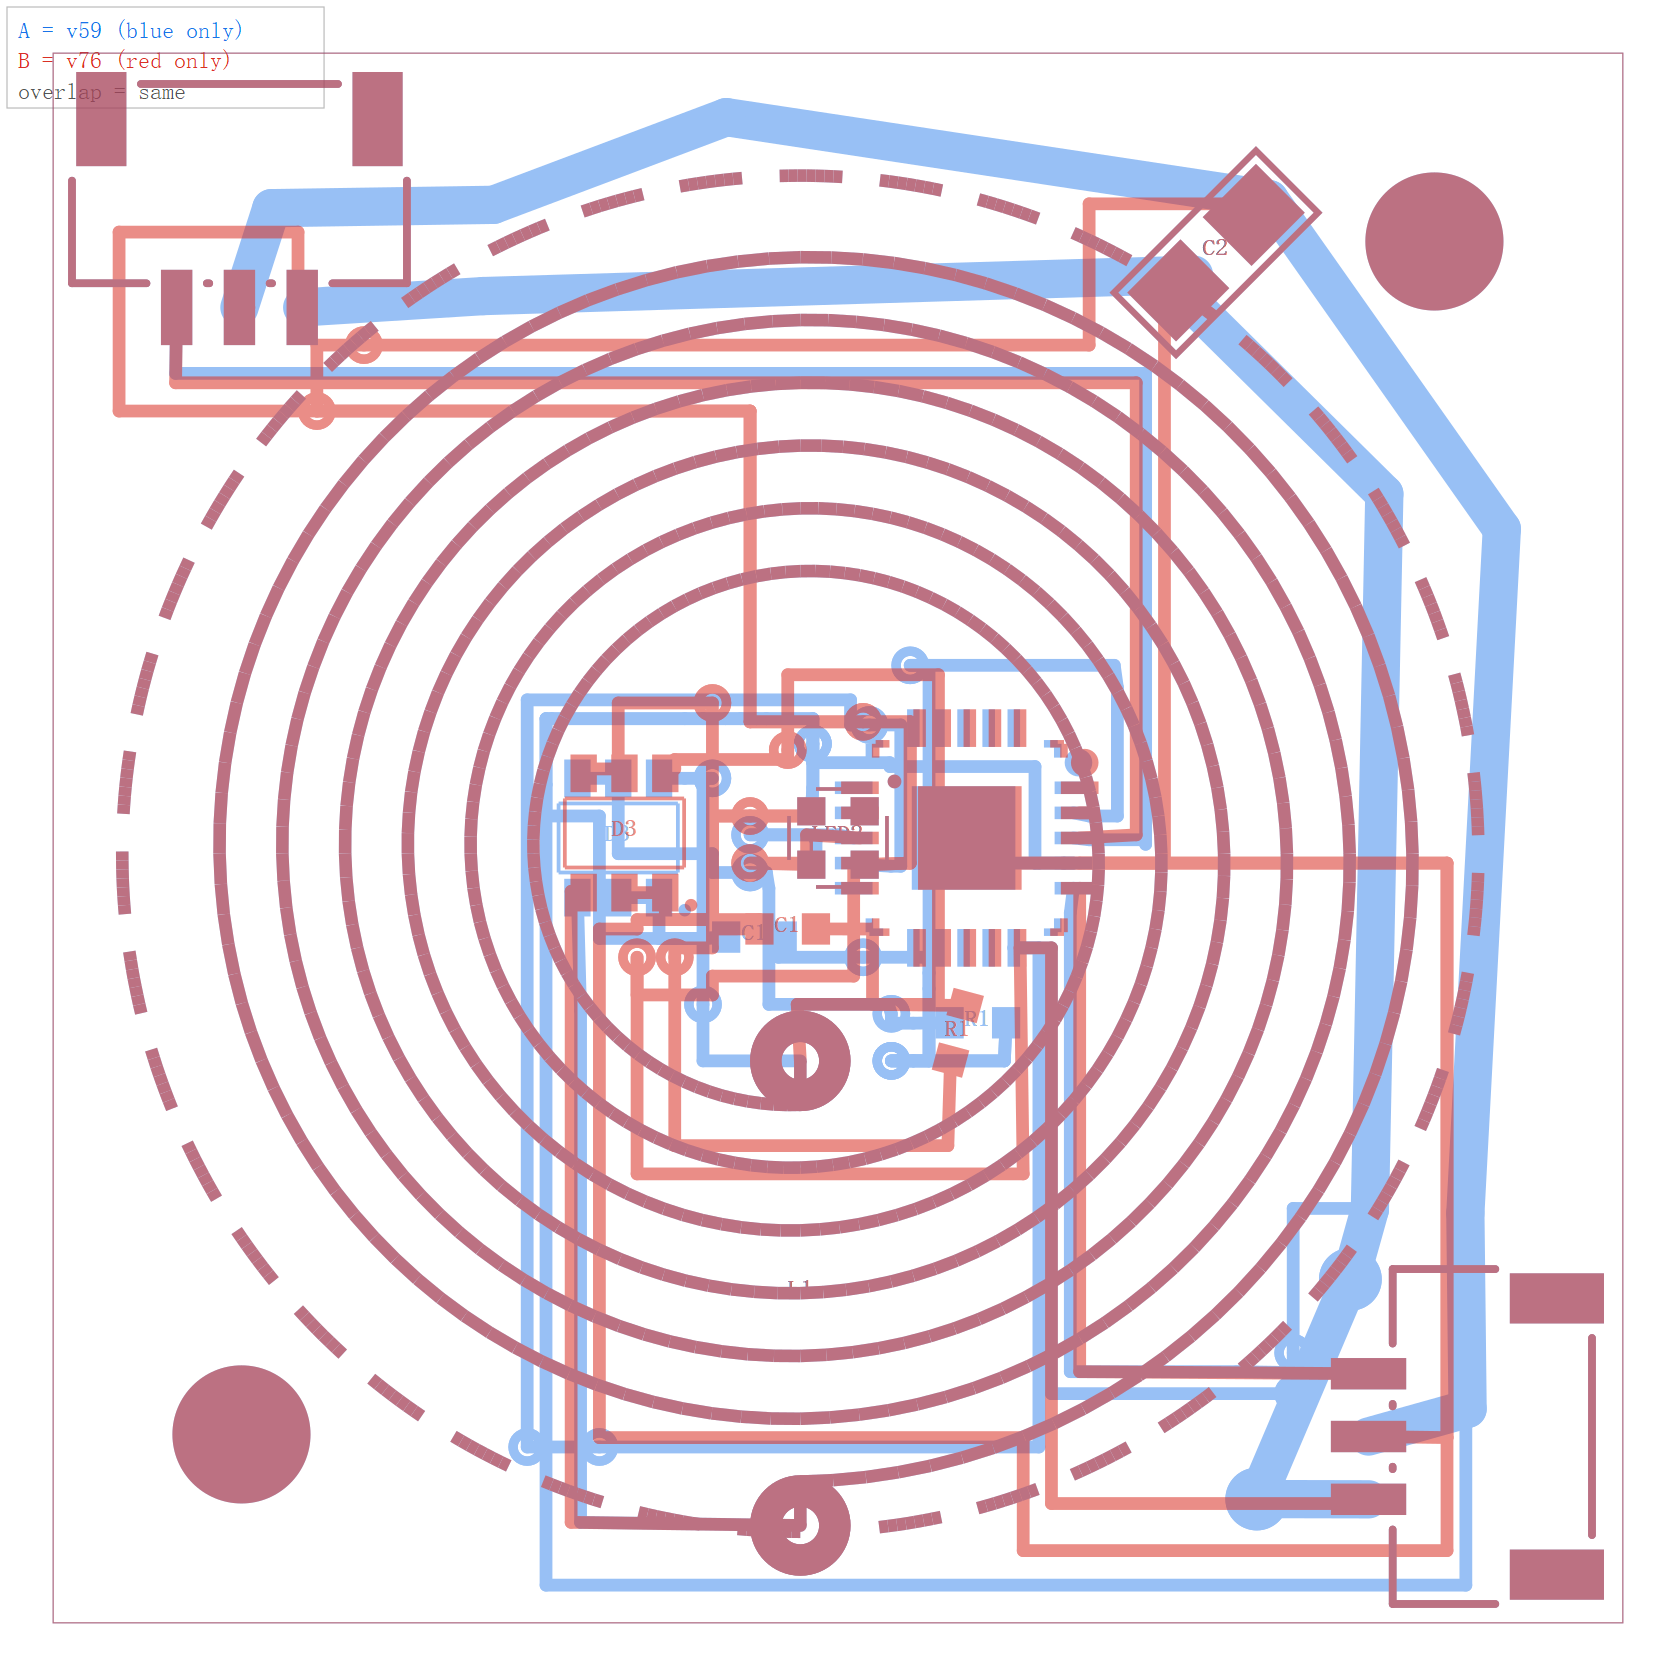
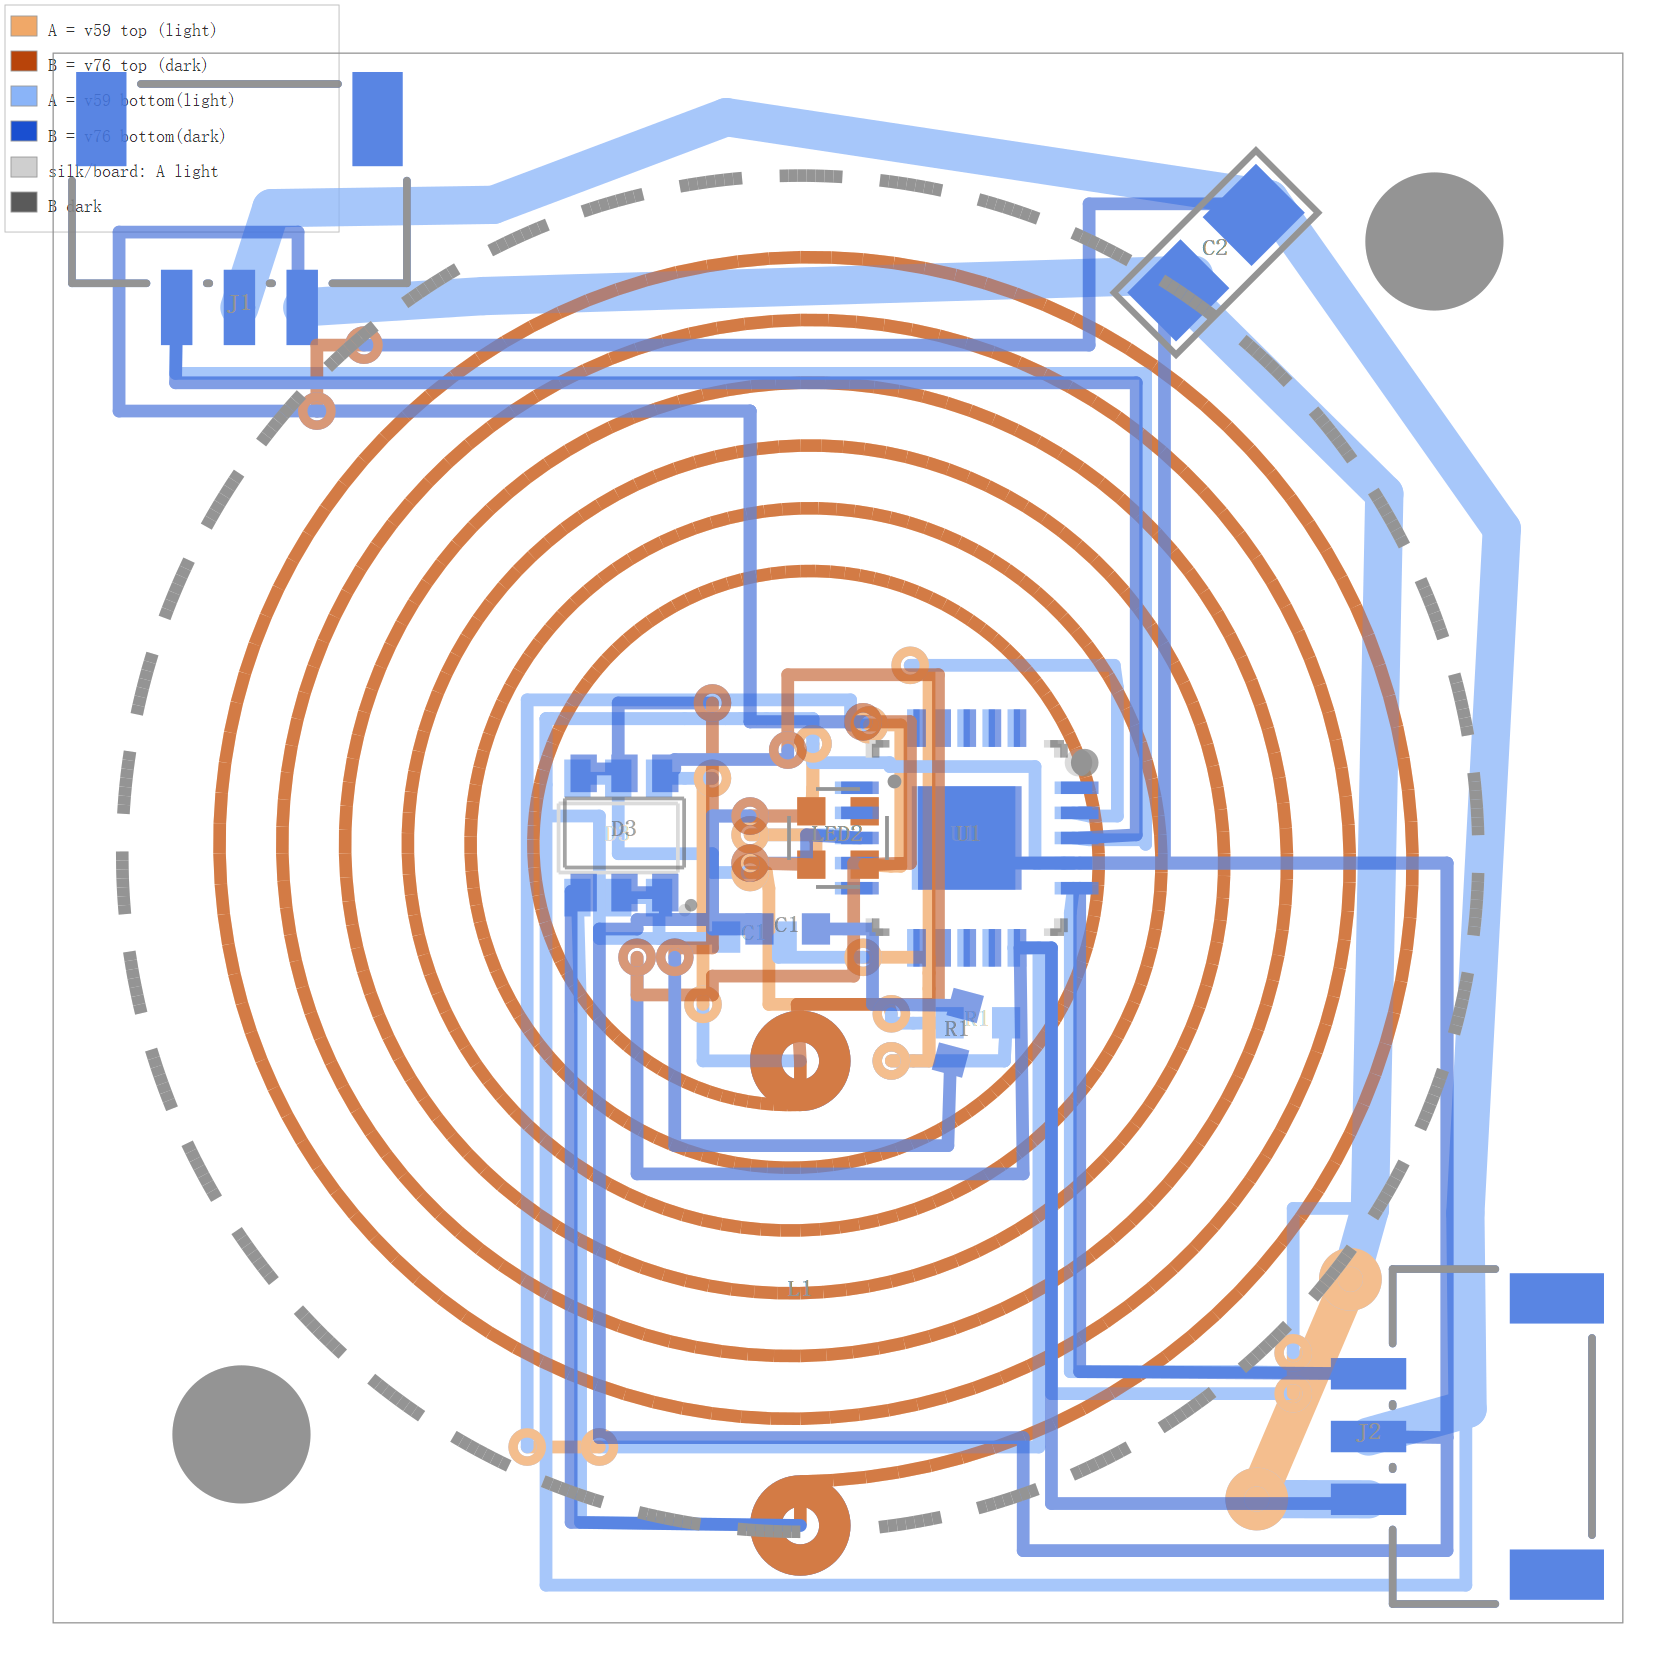
pixel: 差异图保住双面板层色（色相 = 层 / 深浅 = 版）
用户 2026-10-07 原话：「仍然有个问题，双面板的颜色差异看不出来了」。
⇒ 旧的"整版一色（A 蓝 / B 红）"把 copper0/copper1 刷成一色了。现在改成：

- **色相 = 层**：顶层 = 暖橙、底层 = 冷蓝；
- **深浅 = 版**：浅 = A（旧）、深 = B（新）；
- 非铜（丝印 / 板框 / 位号 / 孔）= **中性灰**（A 浅 / B 深）；
- 两版重合处叠得更深（= 没动）。
- 实现：改用元件库新增的 render_pcb.remap_colors() **认色换色**（不再用"刷成一色"的
  repaint_colors）；图例 6 行、每行带**真实色块**，文字只用 ASCII
  （cairosvg 渲不出中文 ⇒ 中文解释放同名 .md）。

顺带把图例排版一次定死（不再反复微调）：字号必须**按画布比例**（写死 12 单位 ⇒
在 8043 单位的画布里只有 2 像素 ⇒ 等于没画）、行距给到 **2×fs**
（实测 1.35×fs / 1.75×fs 都会让上下行撞在一起）。

README §10.3 更新颜色口径与修法；示例图 pixel-pcb-diff-v59-v76.png 刷新。

diff --git a/hardware/pixel/README.md b/hardware/pixel/README.md
@@ -5086,8 +5086,15 @@ py tools\diff_revs.py --last 2
 
 [![v59 ⇒ v76 差异图](pixel-pcb-diff-v59-v76.png)](pixel-pcb-diff-v59-v76.png)
 
-- 图：**蓝 = 只有 A 有**（删掉了 ✗）｜**红 = 只有 B 有**（新增 ✓）｜**紫/深 = 两版重合**（没动 ✓）
-  ⇒ `diff\diff-<A>-<B>.png` ＋ `.svg`（矢量，可放大 ✓）
+- 图：**色相 = 层** ✓（**顶层 = 暖橙** ✓ / **底层 = 冷蓝** ✓）、**深浅 = 版** ✓
+  （**浅 = A 旧** ✓ / **深 = B 新** ✓）；丝印/板框/位号/孔 = **中性灰**（A 浅 / B 深 ✓）；
+  两版重合处**叠得更深**（= 没动 ✓）⇒ 既分得清两层 ✓、也分得清两版 ✓
+  （★ 2026-10-07 用户指出「**双面板的颜色差异看不出来了**」✗ —— 旧的"整版一色"
+  （A 蓝 / B 红）把 `copper0`/`copper1` 刷成一色了 ✗；修法：用渲染器**自己的层色常量**
+  （`C_CU0/C_CU1` ✓、`C_W0/C_W1` ✓、`C_VIA_*` ✓）"**认色换色**" ✓，而不是"刷成一色" ✗
+  ⇒ 元件库新增 `render_pcb.remap_colors()` ✓，`repaint_colors()` 改成它的薄封装 ✓
+  （**实现只剩一份** ✓；重构后用 SHA1 比对验证过：渲染结果**一字未变** ✓）。
+  ⇒ 输出 `diff\diff-<A>-<B>.png` ＋ `.svg`（矢量，可放大 ✓）
 - 清单（控制台 ＋ 同名 `.md` ✓）分四段：
   · ① **摆位**：哪个件/哪只脚挪了 **多少 mm** ✓（给 Δ ✓）
   · ② **网**（名字取 `pixel_nets.py` ✓ = 你的词汇 `GND`/`5V`/`RC` ✓）：每张网 **铜块 A ⇒ B**
